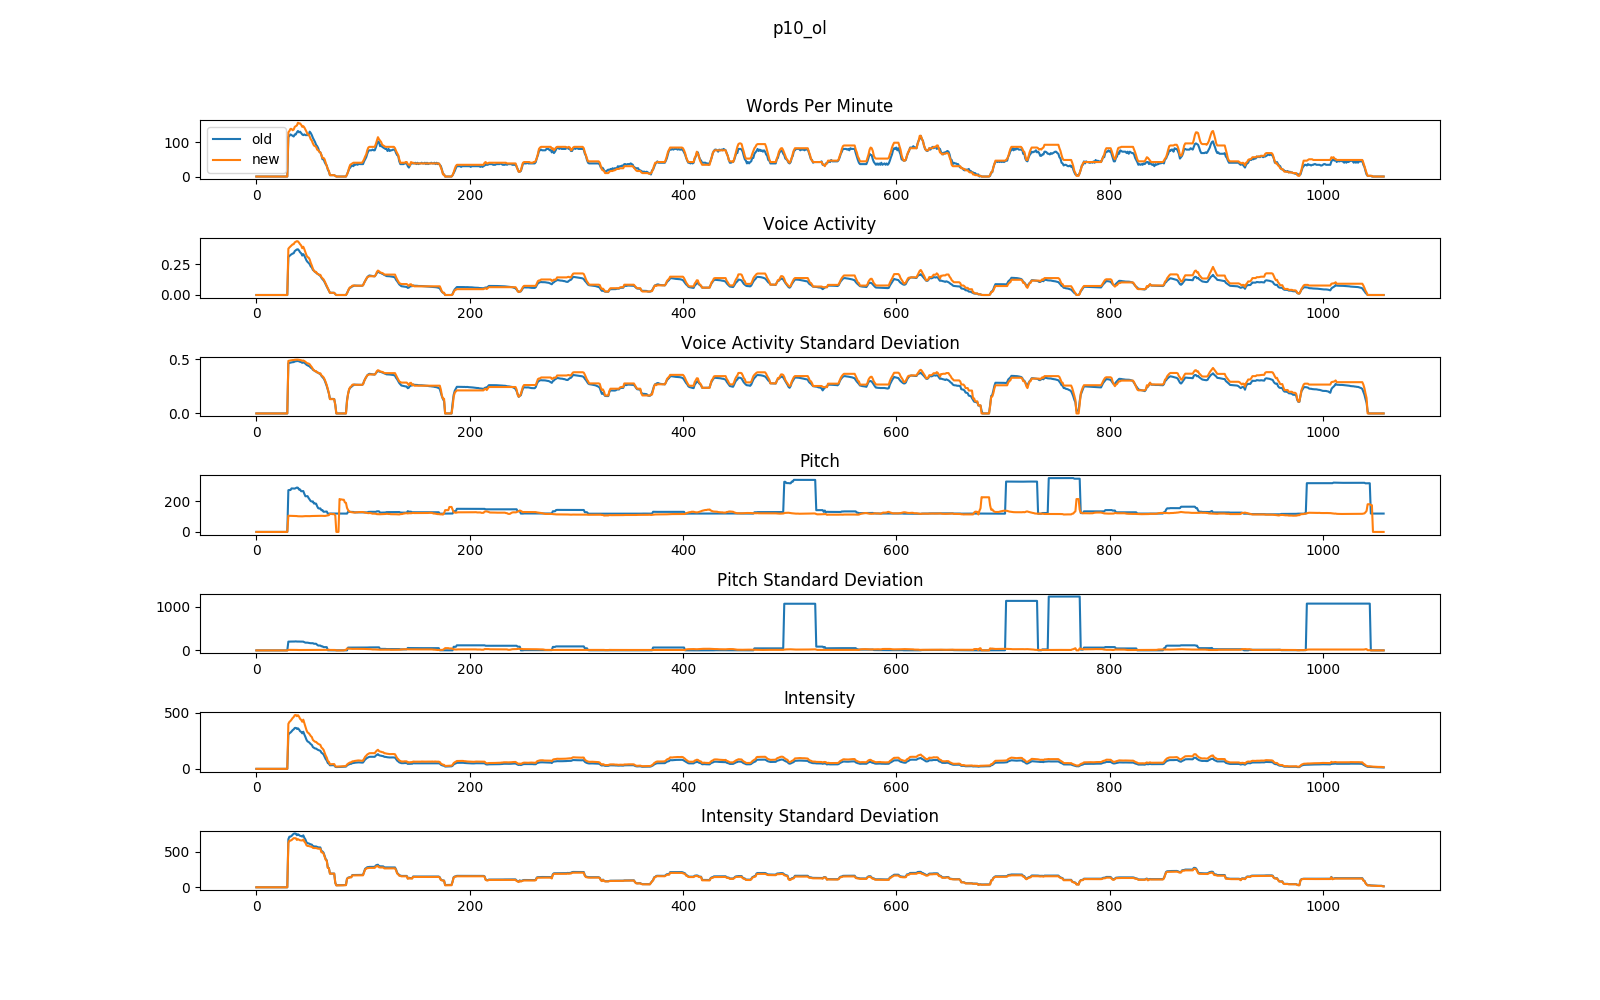
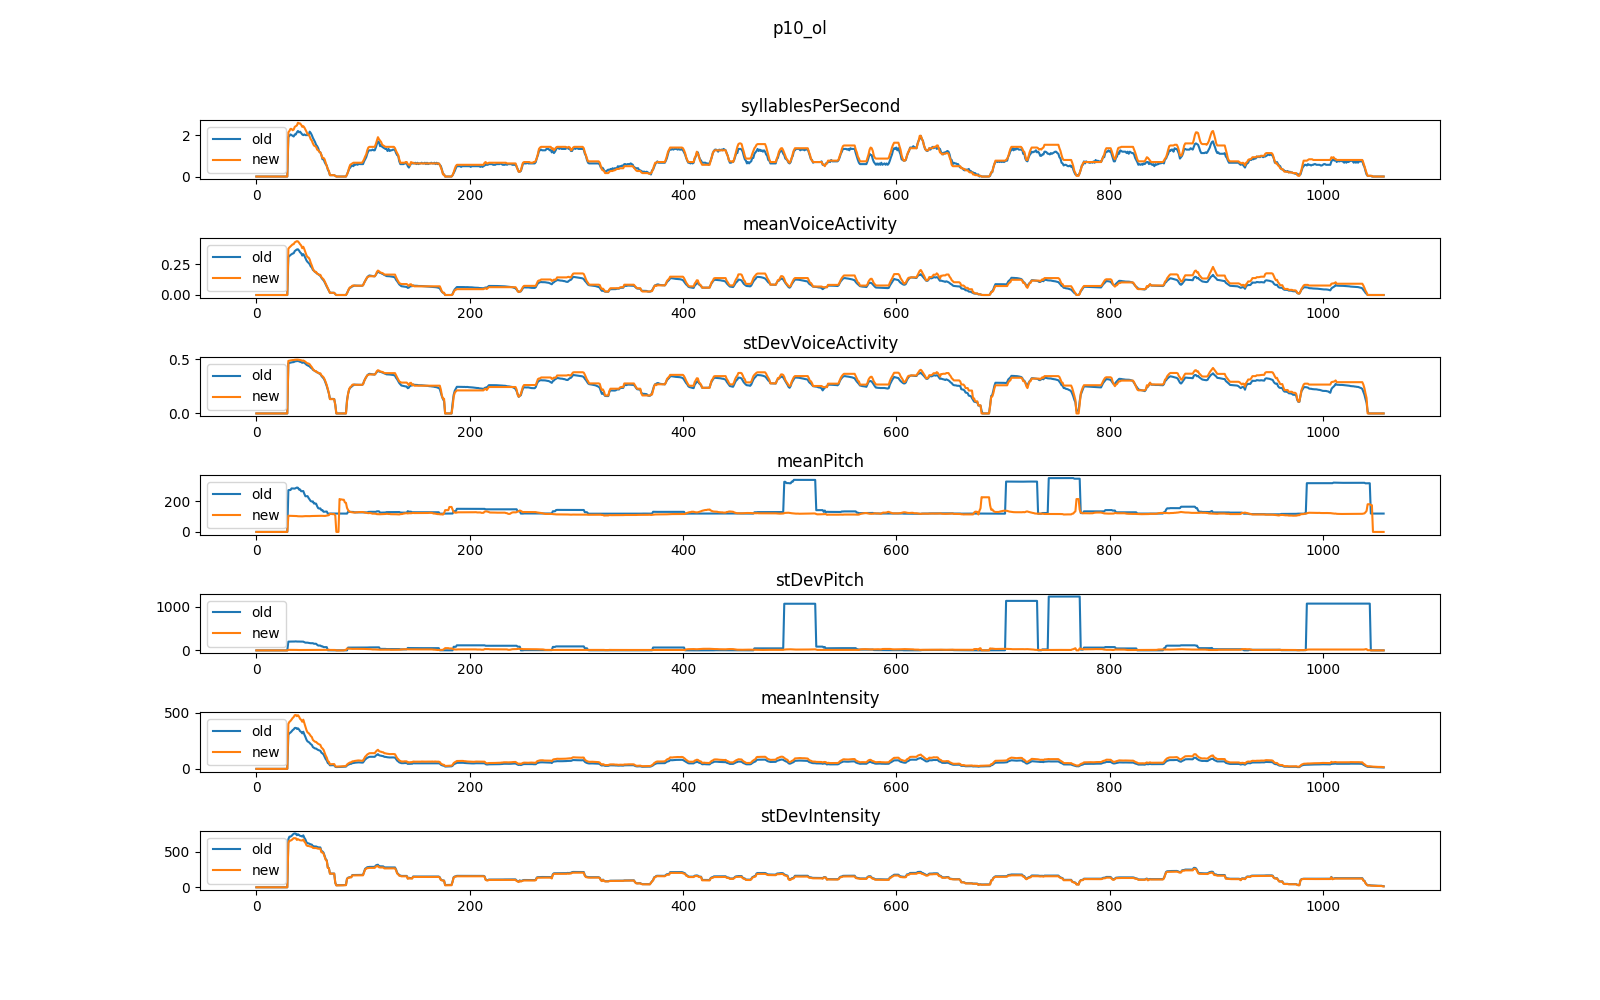
Revamped feature extraction, testing, and graphing differences

diff --git a/speechLibrary/speechAnalysis.py b/speechLibrary/speechAnalysis.py
@@ -35,7 +35,7 @@ class SpeechAnalyzer:
         self.lookBackSize = 30 # Time interval to examine looking backward for features, in seconds.
 
         # Parameters for all features
-        self.features = ["syllables", "meanVoiceActivity", "stDevVoiceActivity", "meanPitch", "stDevPitch", "meanIntensity", "stDevIntensity"]
+        self.features = ["meanIntensity", "stDevIntensity", "meanPitch", "stDevPitch", "stDevVoiceActivity", "meanVoiceActivity", "syllablesPerSecond", "filledPauses"]
         self.featureStepSize = 10 # Step size for all features, in milliseconds.
         self.energyThresholdRatio = 4
 
@@ -164,36 +164,36 @@ class SpeechAnalyzer:
         totalStartTime = time.time()
         startTime = time.time()
 
-        ### AMPLITUDE
+        # Get amplitude envelope feature.
         energy = self.getEnergyFromAudio(audio)
 
         if DEBUG:
             print("Time to get amplitude:", time.time() - startTime)
             startTime = time.time()
 
-        ### PITCH
+        # Get pitch feature.
         pitches = self.getPitchFromAudio(audio, energy)
 
         if DEBUG:
             print("Time to get pitch:", time.time() - startTime)
             startTime = time.time()
 
-        ### VAD
+        # Get voice activity feature.
         voiceActivity = self.getVoiceActivityFromAudio(audio, pitches)
 
         if DEBUG:
             print("Time to get voice activity:", time.time() - startTime)
             startTime = time.time()
 
-        ### SYLLABLES
-        if "syllables" in self.features:
+        # Get syllables feature if needed as binary array for easy masking.
+        if "syllablesPerSecond" in self.features:
             syllables, _ = self.getSyllablesFromAudio(audio, pitches)
 
             if DEBUG:
                 print("Time to get syllables:", time.time() - startTime)
                 startTime = time.time()
 
-        # ### FILLED PAUSES
+        # Get filled pauses feature if needed as binary array for easy masking.
         if "filledPauses" in self.features:
             filledPauses, _ = self.getFilledPausesFromAudio(audio)
 
@@ -203,15 +203,19 @@ class SpeechAnalyzer:
 
 
 
-        # Mask features with voice activity
+        # Expand voice activity to have a margin for error to catch speech features
+        # and create boolean array with True for no activity to set no activity
+        # to all zeros.
         bufferFrames = int(self.voiceActivityMaskBufferSize / self.featureStepSize)
         mask = np.invert(featureModule.createBufferedBinaryArrayFromArray(voiceActivity.astype(bool), bufferFrames))
 
+        # Mask features with voice activity but setting regions with no voice
+        # activity (incl. buffered margin of error) to zero.
         if self.maskEnergyWithVoiceActivity:
             energy[mask] = 0
 
         if self.maskPitchWIthVoiceActivity:
-            pitches[mask] = 0
+            pitches[mask] = np.nan
 
         if self.maskSyllablesWithVoiceActivity:
             syllables[mask] = 0
@@ -250,7 +254,7 @@ class SpeechAnalyzer:
         features.stDevVoiceActivity = np.append(features.stDevVoiceActivity, stDevVoiceActivity)
 
         ### WORDS PER MINUTE
-        if "syllables" in self.features:
+        if "syllablesPerSecond" in self.features:
             currentSyllablesPerSecond = int(sum(syllables))/self.lookBackSize
 
             features.syllablesPerSecond = np.append(features.syllablesPerSecond, currentSyllablesPerSecond)
@@ -322,7 +326,7 @@ class SpeechAnalyzer:
                 featureArray = np.vstack([featureArray, features.meanVoiceActivity])
             elif feature == "stDevVoiceActivity":
                 featureArray = np.vstack([featureArray, features.stDevVoiceActivity])
-            elif feature == "syllables":
+            elif feature == "syllablesPerSecond":
                 featureArray = np.vstack([featureArray, features.syllablesPerSecond])
             elif feature == "filledPauses":
                 featureArray = np.vstack([featureArray, features.filledPauses])

diff --git a/compareFeatures.py b/compareFeatures.py
@@ -4,73 +4,44 @@ import matplotlib.pyplot as plt # Visualisation
 
 import csv
 
-def compare():
-    testDir = "./featuresCurrent/*.npy"
-    oldDir =  "./featuresTest/"
+def graphParticipants():
+    testDir = "./featuresTest/"
+    oldDir =  "./features/"
 
-    for testPath in sorted(glob.iglob(testDir)):
+    oldLabels = []
+    with open(oldDir + 'labels.csv', 'r') as csvfile:
+        reader = csv.reader(csvfile)
+        for row in reader:
+            oldLabels = row
+
+    testLabels = []
+    with open(testDir + 'labels.csv', 'r') as csvfile:
+        reader = csv.reader(csvfile)
+        for row in reader:
+            testLabels = row
+
+    for testPath in sorted(glob.iglob(testDir + "*.npy")):
         oldPath = oldDir + testPath.split('/')[2]
 
         newFeatures = numpy.load(testPath)
         oldFeatures = numpy.load(oldPath)
 
-        testModule
-
-        seconds = newFeatures[0]
-
         name = os.path.basename(oldPath)[:-4]
 
-        plt.figure(figsize=[16, 10])
-        plt.suptitle(name)
+        testModule.graphArrays(oldLabels= oldLabels,
+                               oldFeatures= oldFeatures,
+                               newLabels= testLabels,
+                               newFeatures= newFeatures,
+                               filePath= testDir + name,
+                               name= name)
 
-        plt.subplot(711)
-        plt.plot(seconds, oldFeatures[1] * 60)
-        plt.plot(seconds, newFeatures[1] * 60)
-        plt.title("Words Per Minute")
-        plt.legend(["old", "new"])
 
-        plt.subplot(712)
-        plt.plot(seconds, oldFeatures[2])
-        plt.plot(seconds, newFeatures[2])
-        plt.title("Voice Activity")
-
-        plt.subplot(713)
-        plt.plot(seconds, oldFeatures[3])
-        plt.plot(seconds, newFeatures[3])
-        plt.title("Voice Activity Standard Deviation")
-
-        plt.subplot(714)
-        plt.plot(seconds, oldFeatures[4])
-        plt.plot(seconds, newFeatures[4])
-        plt.title("Pitch")
-
-        plt.subplot(715)
-        plt.plot(seconds, oldFeatures[5])
-        plt.plot(seconds, newFeatures[5])
-        plt.title("Pitch Standard Deviation")
-
-        plt.subplot(716)
-        plt.plot(seconds, oldFeatures[6])
-        plt.plot(seconds, newFeatures[6])
-        plt.title("Intensity")
-
-        plt.subplot(717)
-        plt.plot(seconds, oldFeatures[7])
-        plt.plot(seconds, newFeatures[7])
-        plt.title("Intensity Standard Deviation")
-
-        plt.subplots_adjust(hspace = 1)
-        plt.savefig("./featuresTest/" + name + ".png")
-
-        # plt.show()
-
-        plt.close()
 
 def compareParticipant():
     participant = 'p10_nl'
 
-    testDir = "./featuresTest/"
-    oldDir =  "./featuresCurrent/"
+    oldDir = "./featuresTest/"
+    testDir =  "./featuresCurrent/"
 
     oldLabels = []
     with open(oldDir + 'labels.csv', 'r') as csvfile:
@@ -87,7 +58,7 @@ def compareParticipant():
     testFeatures = numpy.load(testDir + participant + '.npy')
     oldFeatures = numpy.load(oldDir  + participant + '.npy')
 
-    testModule.compareArrays(oldLables= oldLabels,
+    testModule.compareArrays(oldLabels= oldLabels,
                              oldFeatures= oldFeatures,
                              newLabels= testLabels,
                              newFeatures= testFeatures)

diff --git a/speechLibrary/testModule.py b/speechLibrary/testModule.py
@@ -6,6 +6,7 @@
 #
 
 import numpy as np
+import matplotlib.pyplot as plt # Visualisation
 
 RED = "\u001b[31m"
 GREEN = "\u001b[32m"
@@ -14,9 +15,9 @@ BLUE = "\u001b[34m"
 RESET = "\u001b[0m"
 
 # | Compares two numpy arrays and displays information about their differences.
-def compareArrays(oldLables, oldFeatures, newLabels, newFeatures):
+def compareArrays(oldLabels, oldFeatures, newLabels, newFeatures):
     # Make sure labels match up in size to features
-    assert len(oldLables) == oldFeatures.shape[0], "Old features do not match labels."
+    assert len(oldLabels) == oldFeatures.shape[0], "Old features do not match labels."
     assert len(newLabels) == newFeatures.shape[0], "New features do not match labels."
 
     # Make sure no funny business with feature arrays
@@ -29,9 +30,9 @@ def compareArrays(oldLables, oldFeatures, newLabels, newFeatures):
 
     else:
         # Check for features modified or removed from old array
-        for featureName in oldLables:
+        for featureName in oldLabels:
             if featureName in newLabels:
-                oldColumn = oldFeatures[oldLables.index(featureName)]
+                oldColumn = oldFeatures[oldLabels.index(featureName)]
                 newColumn = newFeatures[newLabels.index(featureName)]
 
                 if np.array_equal(oldColumn, newColumn):
@@ -53,7 +54,42 @@ def compareArrays(oldLables, oldFeatures, newLabels, newFeatures):
 
         # Check for features added to new array
         for featureName in newLabels:
-            if featureName not in oldLables:
+            if featureName not in oldLabels:
                 print(BLUE + "+ '" + featureName + "' added" + RESET)
 
     print()
+
+
+# | Compares two numpy arrays and displays graphs.
+def graphArrays(oldLabels, oldFeatures, newLabels, newFeatures, filePath, name=None):
+    # Make sure labels match up in size to features
+    assert len(oldLabels) == oldFeatures.shape[0], "Old features do not match labels."
+    assert len(newLabels) == newFeatures.shape[0], "New features do not match labels."
+
+    # Make sure no funny business with feature arrays
+    assert oldFeatures.shape[1] == newFeatures.shape[1], "Feature array lengths differ."
+    assert oldLabels.index("time") == 0, "Time array missing from first position."
+
+    seconds = oldFeatures[0]
+
+    numberOfPlots = len(oldLabels) - 1
+
+    plt.figure(figsize=[16, 10])
+    plt.suptitle(name)
+
+    for featureIndex in range(1, len(oldLabels)):
+        featureName = oldLabels[featureIndex]
+
+        plt.subplot(numberOfPlots * 100 + 10 + featureIndex)
+        plt.plot(seconds, oldFeatures[featureIndex])
+        plt.title(featureName)
+
+        if featureName in newLabels:
+            newFeatureIndex = newLabels.index(featureName)
+
+            plt.plot(seconds, newFeatures[newFeatureIndex])
+            plt.legend(["old", "new"])
+
+    plt.subplots_adjust(hspace = 1)
+    plt.savefig(filePath + ".png")
+    plt.close()
